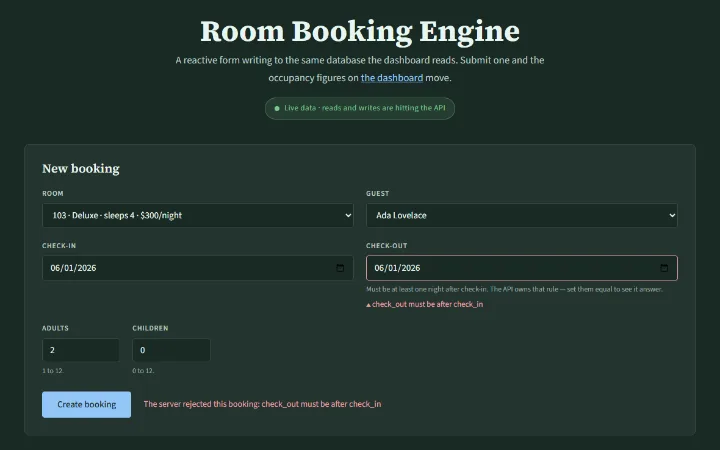
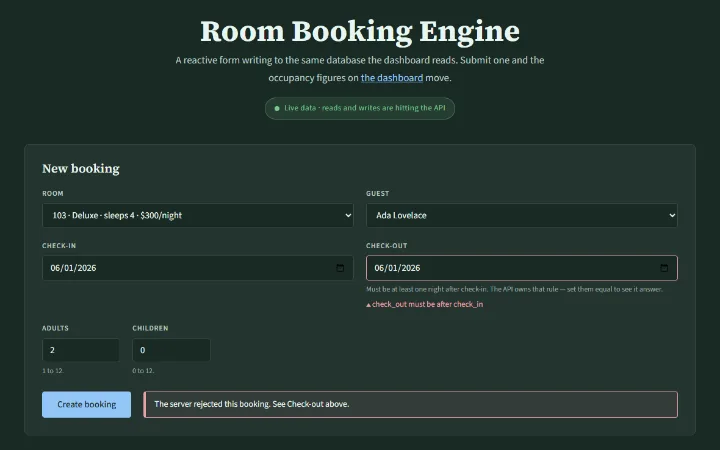
feat: consistency

Changed region(s): [[0.1833, 0.8711, 0.9472, 0.9333]]

diff --git a/src/app/booking/booking.ts b/src/app/booking/booking.ts
@@ -38,6 +38,31 @@ const FIELDS = ['room_id', 'guest_id', 'check_in', 'check_out', 'adults', 'child
 
 type FieldName = (typeof FIELDS)[number];
 
+/**
+ * What each field is called on screen. The template binds its labels from
+ * here, so the outcome line can name a field in the same words the visitor
+ * sees above the input — not the wire name, and not a second copy.
+ */
+export const FIELD_LABELS: Readonly<Record<FieldName, string>> = {
+  room_id: 'Room',
+  guest_id: 'Guest',
+  check_in: 'Check-in',
+  check_out: 'Check-out',
+  adults: 'Adults',
+  children: 'Children',
+};
+
+function isFieldName(key: string): key is FieldName {
+  return (FIELDS as readonly string[]).includes(key);
+}
+
+/** "Check-out", "Check-in and Check-out", "Room, Adults and Children". */
+function joinLabels(labels: readonly string[]): string {
+  return labels.length < 2
+    ? labels.join('')
+    : `${labels.slice(0, -1).join(', ')} and ${labels[labels.length - 1]}`;
+}
+
 /** ISO `YYYY-MM-DD` in the visitor's own timezone, which is what a date input wants. */
 function isoDate(date: Date): string {
   const local = new Date(date.getTime() - date.getTimezoneOffset() * 60_000);
@@ -63,6 +88,8 @@ function byNewestStay(a: IBooking, b: IBooking): number {
 export class Booking implements OnInit {
   private readonly api = inject(BookingApiService);
   private readonly fb = inject(FormBuilder);
+
+  public readonly labels = FIELD_LABELS;
 
   public readonly status = signal<BookingPageStatus>('checking');
   public readonly submitting = signal(false);
@@ -296,10 +323,16 @@ export class Booking implements OnInit {
     }
 
     this.serverErrors.set(error.fieldErrors);
-    const attributed = Object.keys(error.fieldErrors).length > 0;
+    // When the server blamed a field, its message is already under that field.
+    // Repeating it here put the same sentence on screen twice and read as a
+    // bug; the outcome is the result of the submit, so it says *where* to look
+    // and leaves the *why* to the field.
+    const blamed = Object.keys(error.fieldErrors)
+      .filter(isFieldName)
+      .map((field) => FIELD_LABELS[field]);
     this.setOutcome(
-      attributed
-        ? `The server rejected this booking: ${error.message}`
+      blamed.length > 0
+        ? `The server rejected this booking. See ${joinLabels(blamed)} above.`
         : `The server rejected this booking (HTTP ${error.status}): ${error.message}`,
       true
     );

diff --git a/src/app/booking/booking.html b/src/app/booking/booking.html
@@ -45,7 +45,7 @@
       <h2 class="form-heading">New booking</h2>
 
       <div class="form-row">
-        <app-booking-field fieldId="room_id" label="Room" [error]="errorFor('room_id')">
+        <app-booking-field fieldId="room_id" [label]="labels.room_id" [error]="errorFor('room_id')">
           <select
             id="room_id"
             class="form-control"
@@ -59,7 +59,11 @@
           </select>
         </app-booking-field>
 
-        <app-booking-field fieldId="guest_id" label="Guest" [error]="errorFor('guest_id')">
+        <app-booking-field
+          fieldId="guest_id"
+          [label]="labels.guest_id"
+          [error]="errorFor('guest_id')"
+        >
           <select
             id="guest_id"
             class="form-control"
@@ -75,7 +79,11 @@
       </div>
 
       <div class="form-row">
-        <app-booking-field fieldId="check_in" label="Check-in" [error]="errorFor('check_in')">
+        <app-booking-field
+          fieldId="check_in"
+          [label]="labels.check_in"
+          [error]="errorFor('check_in')"
+        >
           <input
             id="check_in"
             type="date"
@@ -88,7 +96,7 @@
 
         <app-booking-field
           fieldId="check_out"
-          label="Check-out"
+          [label]="labels.check_out"
           hint="Must be at least one night after check-in. The API owns that rule — set them equal to see it answer."
           [error]="errorFor('check_out')"
         >
@@ -106,7 +114,7 @@
       <div class="form-row">
         <app-booking-field
           fieldId="adults"
-          label="Adults"
+          [label]="labels.adults"
           hint="1 to 12."
           [narrow]="true"
           [error]="errorFor('adults')"
@@ -125,7 +133,7 @@
 
         <app-booking-field
           fieldId="children"
-          label="Children"
+          [label]="labels.children"
           hint="0 to 12."
           [narrow]="true"
           [error]="errorFor('children')"

diff --git a/src/app/projects/projects.css b/src/app/projects/projects.css
@@ -1,4 +1,6 @@
-/* ----- Booking Engine Styles ----- */
+/* ----- Projects: the section and its cards -----
+   The booking form used to live in this component, and its form rules
+   outlived the move to `/booking`. They are gone; `booking.css` owns them. */
 .section {
   padding: 5rem 2rem;
   background: var(--color-bg);
@@ -59,55 +61,6 @@
 
 .section-alt .demo-card {
   background: var(--color-bg);
-}
-
-.form-control {
-  width: 100%;
-  padding: 0.5rem 0.75rem;
-  font-size: 0.875rem;
-  border: 1px solid var(--color-border);
-  border-radius: 4px;
-  background: var(--color-bg);
-  color: var(--color-text);
-  box-sizing: border-box;
-  transition: border-color 0.15s ease;
-}
-
-.form-control:focus {
-  outline: none;
-  border-color: var(--color-accent-text);
-}
-
-.form-control:hover:not(:focus) {
-  border-color: color-mix(in srgb, var(--color-accent) 50%, var(--color-border));
-}
-
-.form-group {
-  display: flex;
-  flex-direction: column;
-  gap: 0.375rem;
-  flex: 1;
-  min-width: 140px;
-}
-
-.form-group label {
-  font-size: 0.75rem;
-  font-weight: 600;
-  text-transform: uppercase;
-  letter-spacing: 0.06em;
-  color: var(--color-text-secondary);
-}
-
-.form-group-btn {
-  justify-content: flex-end;
-}
-
-.form-row {
-  display: flex;
-  gap: 1rem;
-  flex-wrap: wrap;
-  align-items: flex-end;
-  margin-bottom: 1.75rem;
 }
 
 .room-grid {
@@ -211,17 +164,6 @@
     background-color 0.15s ease,
     border-color 0.15s ease;
   line-height: 1.4;
-}
-
-.btn-primary {
-  background: var(--color-accent);
-  color: var(--color-on-accent);
-  border-color: var(--color-accent);
-}
-
-.btn-primary:hover {
-  background: var(--color-accent-hover);
-  border-color: var(--color-accent-hover);
 }
 
 .btn-outline {

diff --git a/src/app/booking/booking.spec.ts b/src/app/booking/booking.spec.ts
@@ -272,6 +272,24 @@ describe('Booking', () => {
       expect(component.describedBy('check_in', false)).toBeNull();
     });
 
+    it('names the blamed field in the outcome instead of repeating its message', async () => {
+      api.createBooking.mockRejectedValue(
+        new BookingApiError('rejected', 422, {
+          check_out: 'check_out must be after check_in',
+          adults: 'Input should be greater than 0',
+        })
+      );
+      const component = await readyComponent();
+
+      await component.submit();
+
+      expect(component.outcomeIsError()).toBe(true);
+      expect(component.outcome()).toBe(
+        'The server rejected this booking. See Check-out and Adults above.'
+      );
+      expect(component.outcome()).not.toContain('must be after');
+    });
+
     it('adds nothing to the list and keeps the form usable', async () => {
       api.createBooking.mockRejectedValue(datesRejected);
       const component = await readyComponent();

diff --git a/src/app/booking/booking.css b/src/app/booking/booking.css
@@ -218,8 +218,19 @@ app-booking-field {
   display: none;
 }
 
+/* A bordered callout, not a second copy of `.field-error`. On an attributed
+   rejection both are on screen at once — the field's objection under the
+   field, and the submit's outcome here — and when they shared a treatment the
+   page looked like it had printed one error twice. The text is the default
+   colour so the border carries the state; the field error stays bare red
+   inline. */
 .form-outcome--error {
-  color: var(--color-negative);
+  padding: 0.625rem 0.875rem;
+  border: 1px solid var(--color-negative);
+  border-left-width: 4px;
+  border-radius: 4px;
+  background: color-mix(in srgb, var(--color-negative) 8%, transparent);
+  color: var(--color-text);
 }
 
 /* ----- Bookings table ----- */

diff --git a/src/app/resume/resume.css b/src/app/resume/resume.css
@@ -50,7 +50,9 @@
   font-family: var(--font-serif);
   font-size: 1.1rem;
   font-weight: 600;
-  color: var(--color-accent-text);
+  /* Text, not the accent: the links under these headings are the accent, and
+     a heading in the same blue could not be told apart from them. */
+  color: var(--color-text);
   margin: 0;
   padding-bottom: 0.5rem;
   border-bottom: 2px solid var(--color-border);

diff --git a/CLAUDE.md b/CLAUDE.md
@@ -33,7 +33,7 @@ product; it is a hiring artifact. That distinction decides most arguments:
 
 | File                | Size | Read it when                                                                                                                                                                                                                                                                                                                                                                                                                                                                                                                                                                                                                                                                                                                                                                                                                                                                                                                                                                                                                                                                                                       |
 | ------------------- | ---- | ------------------------------------------------------------------------------------------------------------------------------------------------------------------------------------------------------------------------------------------------------------------------------------------------------------------------------------------------------------------------------------------------------------------------------------------------------------------------------------------------------------------------------------------------------------------------------------------------------------------------------------------------------------------------------------------------------------------------------------------------------------------------------------------------------------------------------------------------------------------------------------------------------------------------------------------------------------------------------------------------------------------------------------------------------------------------------------------------------------------ |
-| `ROADMAP.md`        | 6K   | **Any question of "what should I build".** Numbered items with Definitions of Done (today: a visual pass that brings the interface back in line with its own motion, colour and icon rules), plus a "Deliberately not doing" list. Start here.                                                                                                                                                                                                                                                                                                                                                                                                                                                                                                                                                                                                                                                                                                                                                                                                                                                                     |
+| `ROADMAP.md`        | 4K   | **Any question of "what should I build".** Numbered items with Definitions of Done (today: the last of a visual pass, recomposing the hero), plus a "Deliberately not doing" list. Start here.                                                                                                                                                                                                                                                                                                                                                                                                                                                                                                                                                                                                                                                                                                                                                                                                                                                                                                                     |
 | `README.md`         | 9K   | Almost never — it is a one-page shop window that links here and to `ARCHITECTURE.md`.                                                                                                                                                                                                                                                                                                                                                                                                                                                                                                                                                                                                                                                                                                                                                                                                                                                                                                                                                                                                                              |
 | `ARCHITECTURE.md`   | 25K  | The reference doc: API shapes, the error contract, transports and badges, deployment, env vars, a11y.                                                                                                                                                                                                                                                                                                                                                                                                                                                                                                                                                                                                                                                                                                                                                                                                                                                                                                                                                                                                              |
 | `backend/README.md` | 15K  | You are working inside `backend/` — DB schema, seeding, streaming design, Alembic.                                                                                                                                                                                                                                                                                                                                                                                                                                                                                                                                                                                                                                                                                                                                                                                                                                                                                                                                                                                                                                 |

diff --git a/ROADMAP.md b/ROADMAP.md
@@ -33,29 +33,7 @@ or see a tutorial?_ Prefer finishing one thing convincingly over starting three.
 
 ## Items
 
-### 1. Small consistency fixes: contact headings, booking errors, a stale header
-
-**Effort:** small. Three unrelated fixes, batched because each is too small to stand on its own.
-
-**DoD:**
-
-- **Contact headings** ("Contact Information", "Links", "Education" …) are in `--color-text`, not
-  the accent. Today they are the same blue as the links under them, so headings and links can't be
-  told apart.
-- **The booking rejection is styled as two different things.** On a field-attributed server error,
-  the message appears under the field and again beside the submit button (`booking.ts`,
-  `setOutcome`). Both are wanted: one is attached to the field, the other is the outcome of the
-  submit. But they currently look identical, so it reads as a bug. The outcome line gets a
-  distinct treatment (for example a bordered `--color-negative` callout with the field error kept
-  inline), or, when the error is attributed to a field, it says which field rather than repeating
-  the message. Whichever is chosen, the ARIA wiring stays the same and the e2e booking assertions
-  stay green.
-- **`projects.css` opens with "Booking Engine Styles"** and carries `.form-control` and
-  `.form-row` rules the project cards never use. Correct the header and move or delete the dead
-  rules.
-- Frames re-captured if `/booking` changed.
-
-### 2. Rework the hero's composition
+### 1. Rework the hero's composition
 
 **Effort:** medium. **Why:** the first screen is left-aligned text with the right ~40% of a desktop
 viewport empty, and three buttons of equal weight. It is the weakest screen on the site and the one
